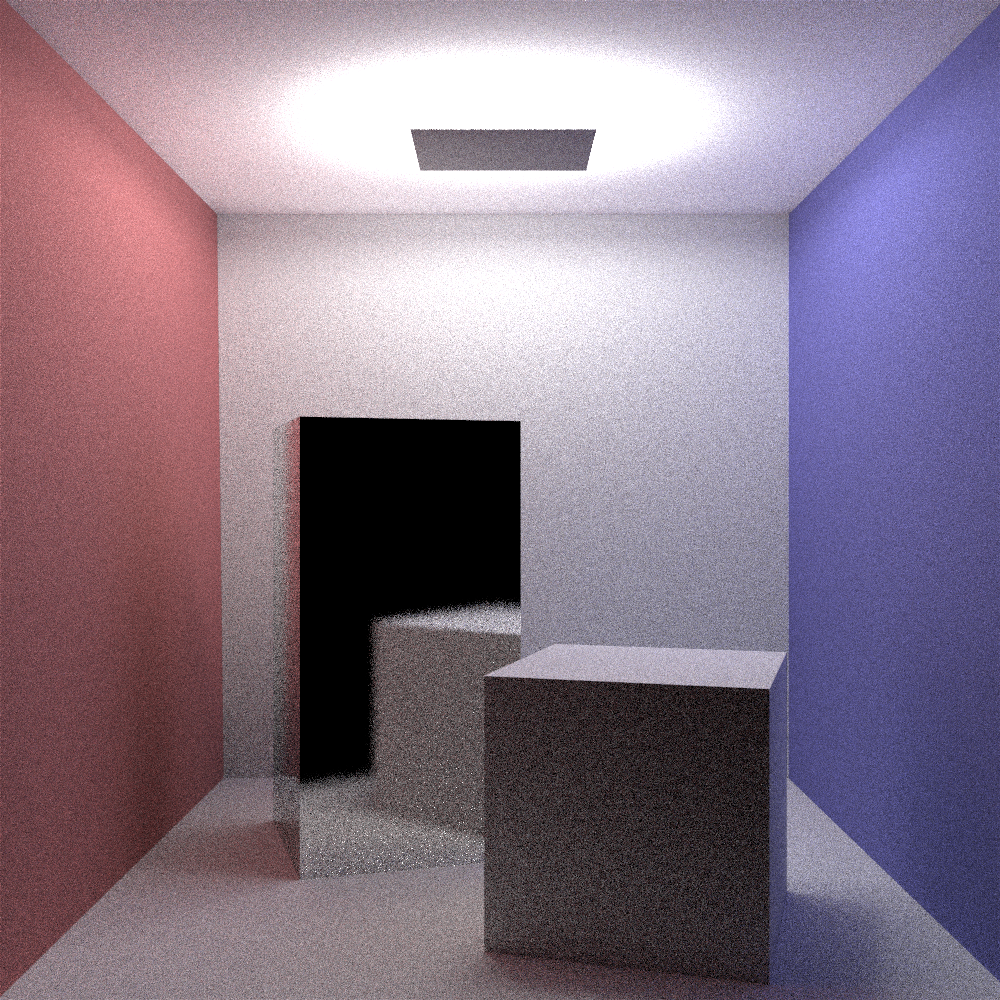
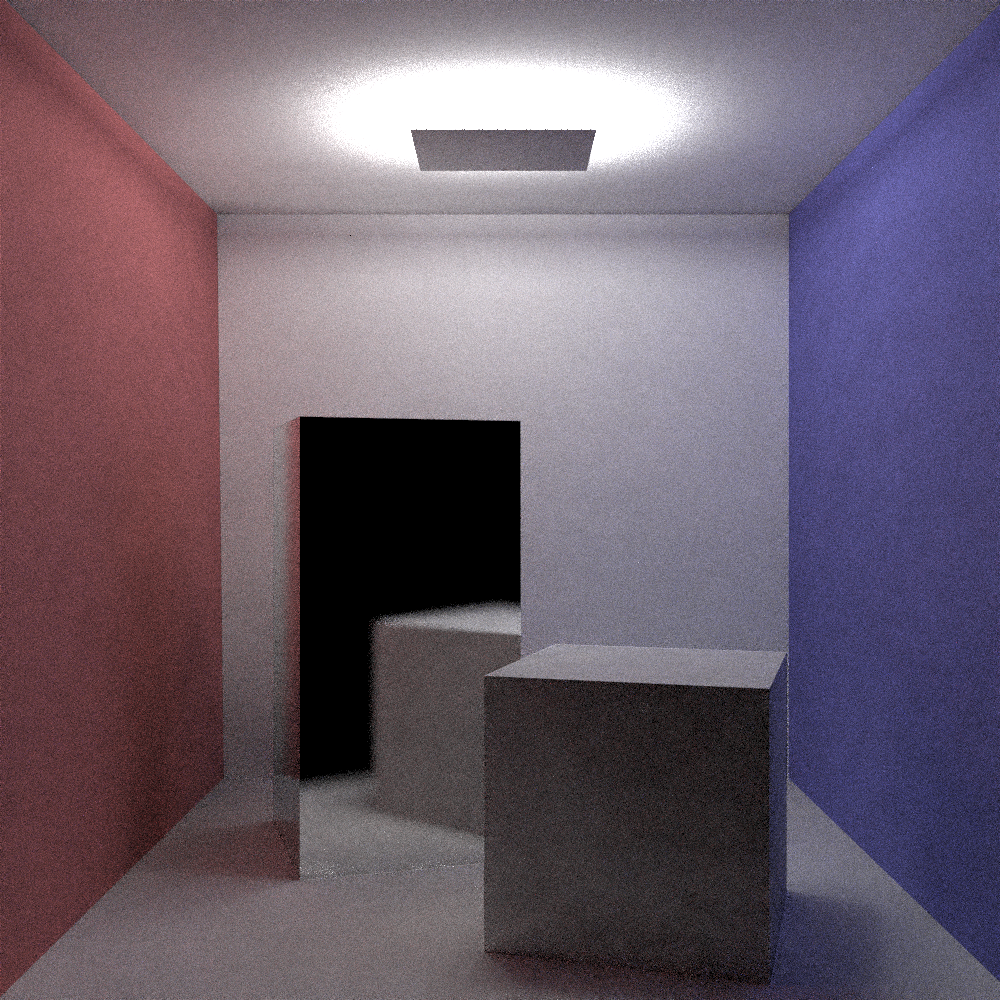
fixed mlt

diff --git a/src/renderer/rendersystem.cc b/src/renderer/rendersystem.cc
@@ -7,7 +7,6 @@
 #include "../integrators/ao/ao.h"
 #include "../integrators/pathtracer/pathtracer.h"
 #include "../integrators/bdpt/bdpt.h"
-#include "../integrators/pssmlt/pssmlt.h"
 #include "../integrators/mmlt/mmlt.h"
 
 using namespace Miyuki;
@@ -150,8 +149,6 @@ void RenderSystem::readDescription(const std::string &filename) {
                         integrator = std::make_unique<AOIntegrator>();
                     } else if (integratorName == "bdpt") {
                         integrator = std::make_unique<BDPT>();
-                    } else if (integratorName == "pssmlt") {
-                        integrator = std::make_unique<PSSMLTUnidirectional>();
                     } else if (integratorName == "mmlt" || integratorName == "mlt") {
                         integrator = std::make_unique<MultiplexedMLT>();
                     } else {
@@ -166,6 +163,9 @@ void RenderSystem::readDescription(const std::string &filename) {
                 }
                 if(integratorInfo.hasKey("chains")){
                     scene.option.mltNChains = integratorInfo["chains"].getFloat();
+                }
+                if(integratorInfo.hasKey("direct-samples")){
+                    scene.option.mltDirectSamples = integratorInfo["direct-samples"].getFloat();
                 }
                 if (integratorInfo.hasKey("max-depth")) {
                     scene.option.maxDepth = integratorInfo["max-depth"].getInt();

diff --git a/src/integrators/mmlt/mmlt.cc b/src/integrators/mmlt/mmlt.cc
@@ -141,11 +141,15 @@ Spectrum MultiplexedMLT::L(Scene &scene, MemoryArena &arena, MLTSampler &sampler
             return {};
         } else {
             // avoid generating direct lighting paths
-            nStrategies = depth + 2;
-            s = std::min((int) (sampler.nextFloat() * nStrategies), nStrategies - 1);
-            t = nStrategies - s;
-            if(s + t == 3) {
-                return {};
+            // infinite area lights won't be sampled
+            if (depth == 1) {
+                s = 0;
+                t = 3;
+                nStrategies = 1;
+            } else {
+                nStrategies = depth + 2;
+                s = std::min((int) (sampler.nextFloat() * nStrategies), nStrategies - 1);
+                t = nStrategies - s;
             }
         }
     }
@@ -164,6 +168,10 @@ Spectrum MultiplexedMLT::L(Scene &scene, MemoryArena &arena, MLTSampler &sampler
     sampler.startStream(MLTSampler::lightStreamIndex);
     if (generateLightSubpath(scene, ctx, s, lightVertices) != s)
         return {};
+    if (s + t == 3 && s == 0) {
+        if (!cameraVertices[t - 1].isInfiniteLight())
+            return {};
+    }
     sampler.startStream(MLTSampler::connectionStreamIndex);
     return removeNaNs(Spectrum(connectBDPT(scene, ctx, lightVertices, cameraVertices, s, t, raster) * nStrategies));
 

diff --git a/src/integrators/bdpt/bdpt.cc b/src/integrators/bdpt/bdpt.cc
@@ -339,8 +339,8 @@ BDPT::connectBDPT(Scene &scene, RenderContext &ctx, Vertex *lightVertices, Verte
             Vec3f wi;
             Float pdf;
             VisibilityTester tester;
-            // dynamically sample a light source
-            auto light = scene.chooseOneLight(*ctx.sampler);
+            // dynamically sample the light source
+            auto light = L.light;
             Li = light->sampleLi(ctx.sampler->nextFloat2D(), *E.event.getIntersectionInfo(), &wi, &pdf, &tester);
             if (Li.isBlack() || pdf <= 0)return {};
             sampled = Vertex::createLightVertex(light, tester.shadowRay, {}, pdf, Spectrum(Li / pdf));

diff --git a/src/bsdfs/bsdf.cc b/src/bsdfs/bsdf.cc
@@ -9,6 +9,7 @@
 using namespace Miyuki;
 
 Spectrum BSDF::sample(ScatteringEvent &event) const {
+    // TODO: flip if necessary
     event.setWi(cosineWeightedHemisphereSampling(event.u));
     event.sampledType = type;
     event.pdf = pdf(event.wo, event.wi, event.sampledType);
